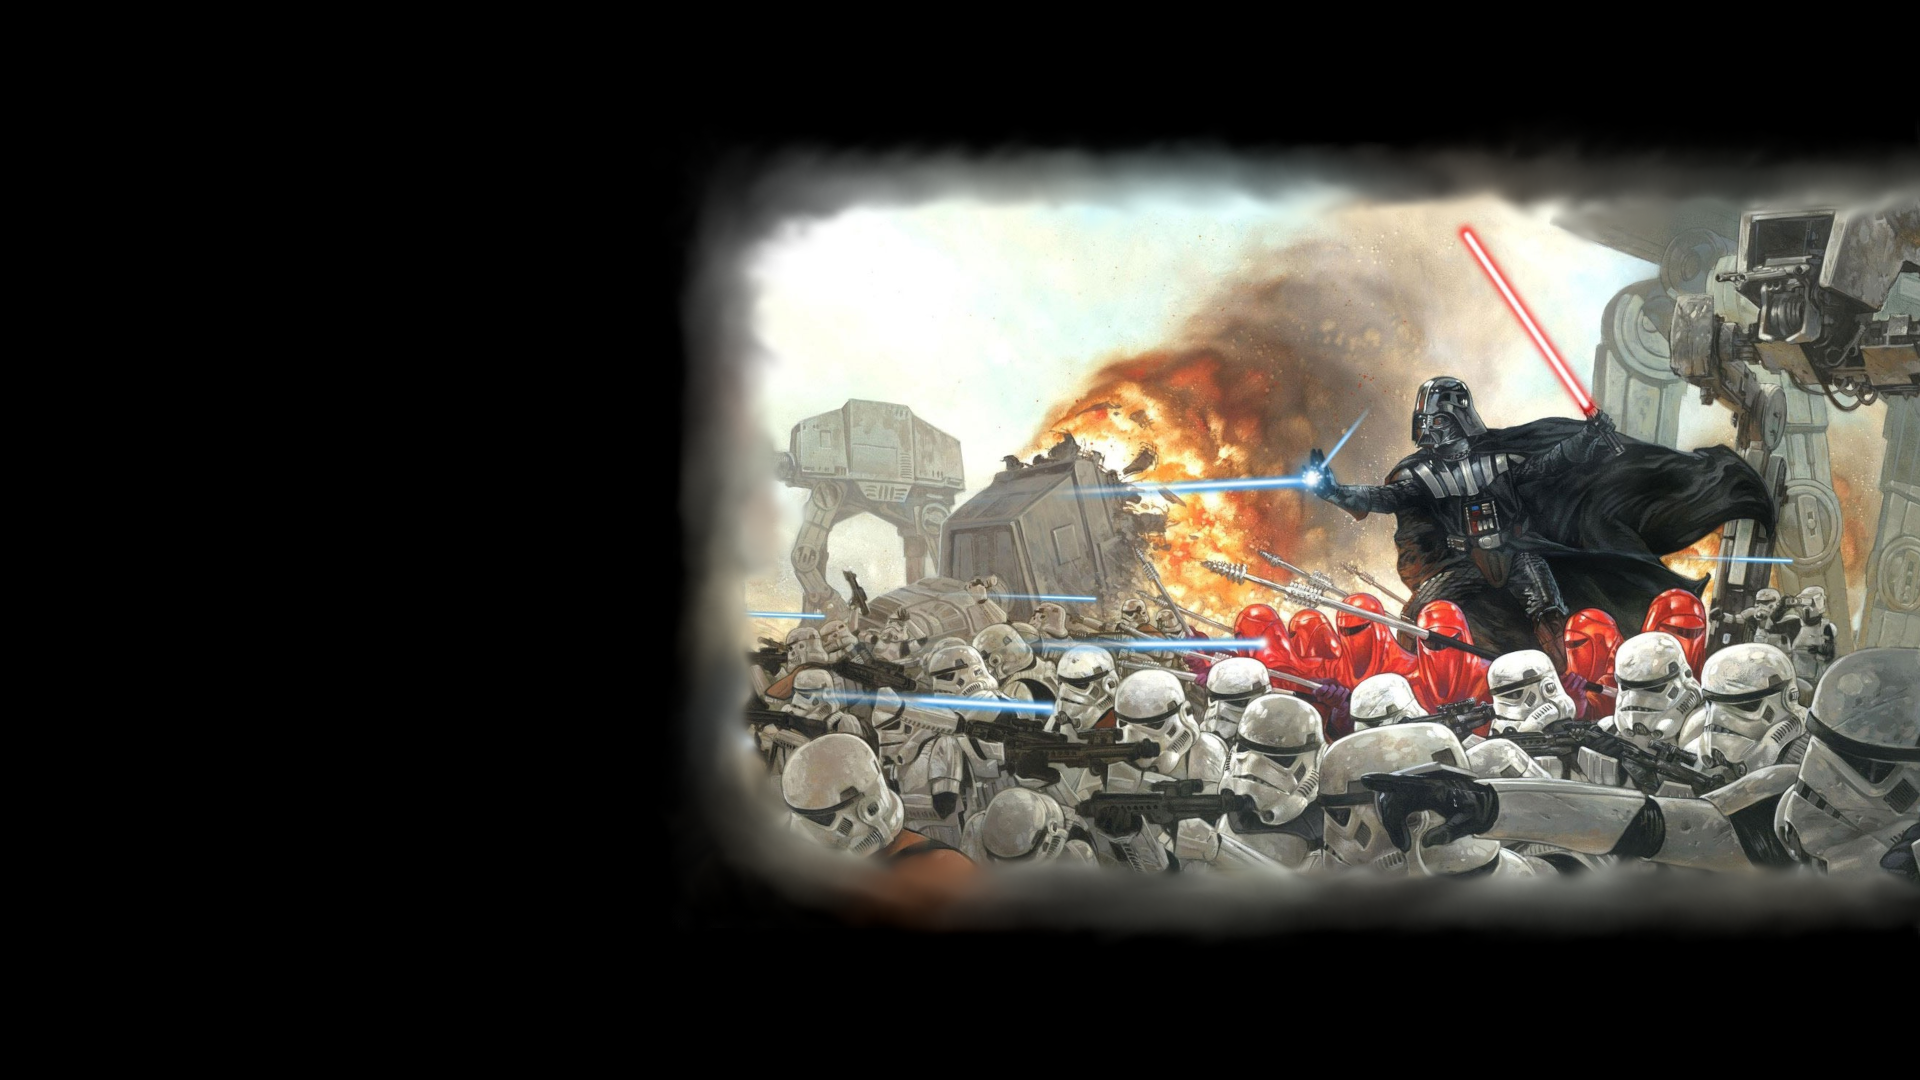
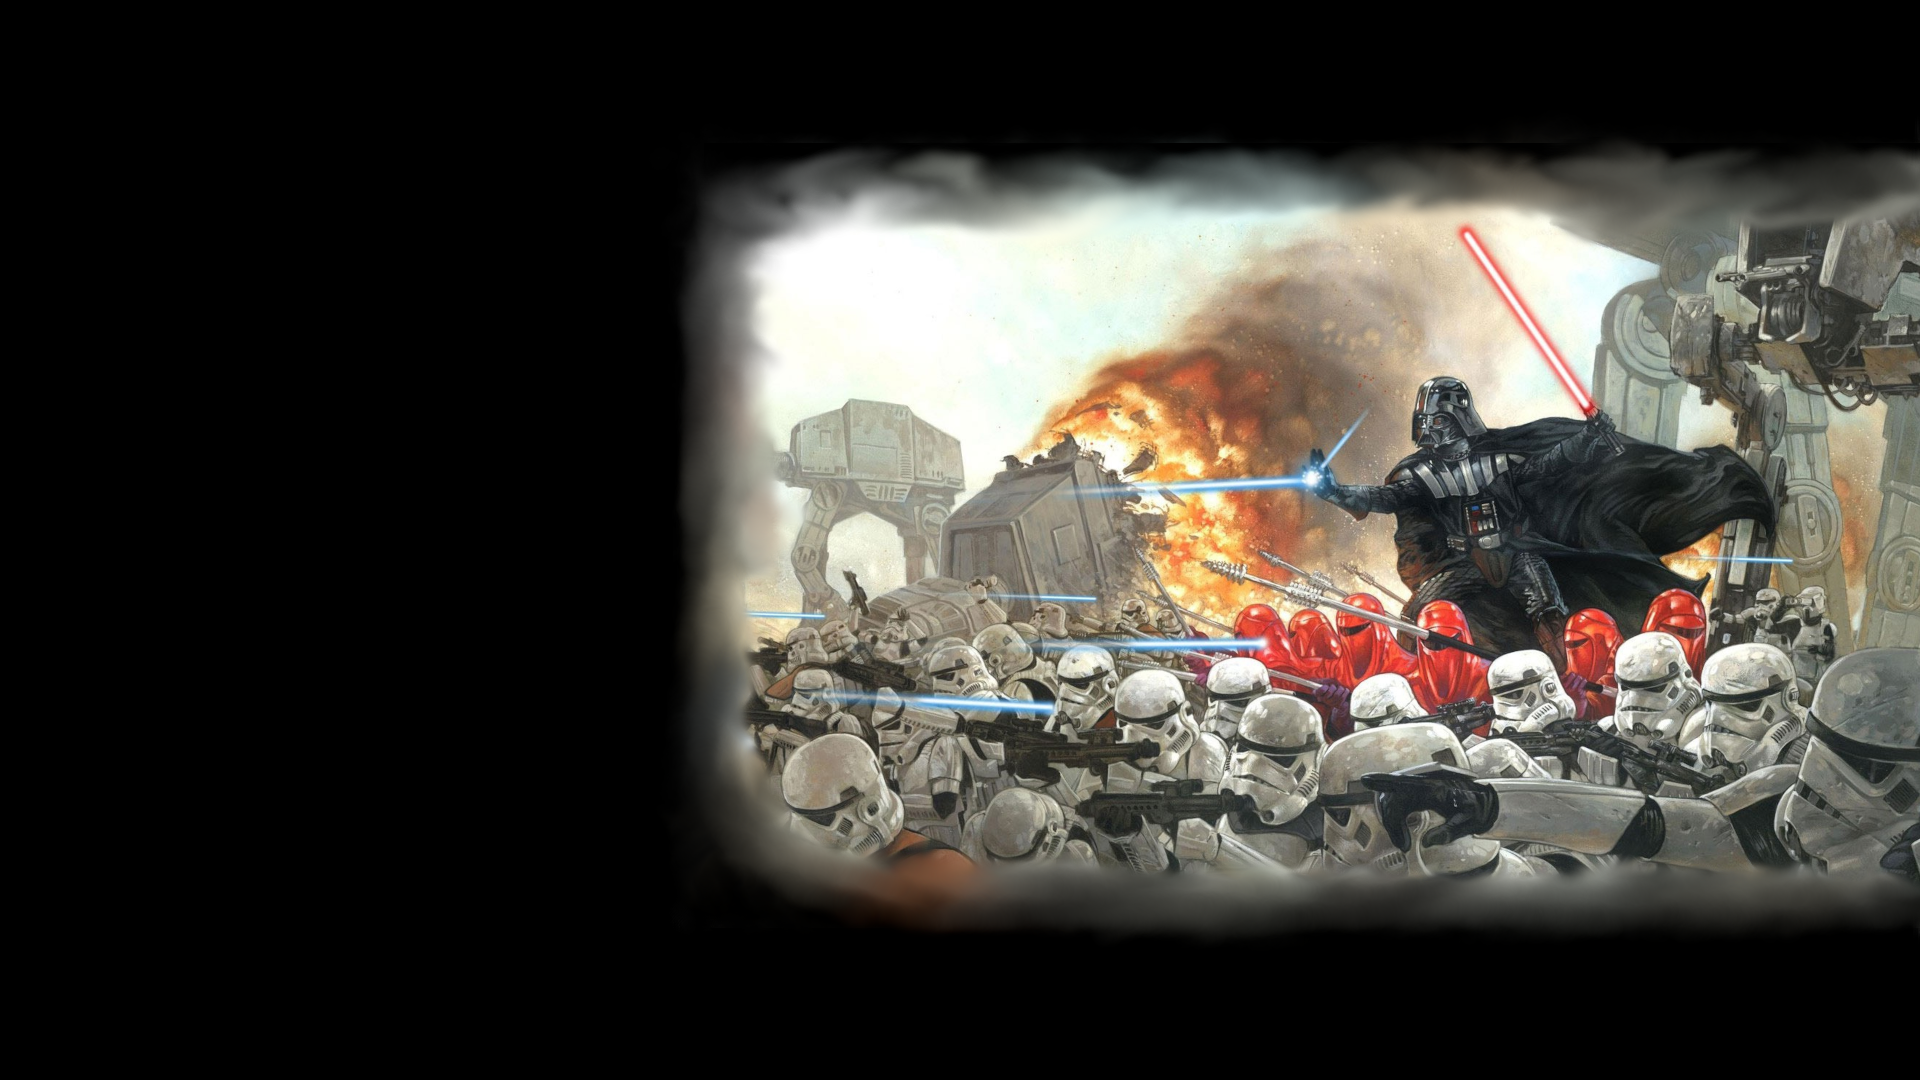
Responsividade e ajustes do hero

Changed region(s): [[0.4062, 0.1222, 0.875, 0.2139], [0.9062, 0.1222, 1.0, 0.2139], [0.4062, 0.1222, 0.4375, 0.1528]]

diff --git a/src/scripts/main.js b/src/scripts/main.js
@@ -2,6 +2,8 @@ document.addEventListener('DOMContentLoaded', () => {
   const heroSection = document.querySelector('.hero')
   const alturaHero = heroSection.clientHeight
 
+  const buttons = document.querySelectorAll('[data-tab-button]')
+
   window.addEventListener('scroll', () => {
     const posicaoAtual = window.scrollY
 
@@ -11,6 +13,17 @@ document.addEventListener('DOMContentLoaded', () => {
       exibeElementosDoHeader()
     }
   })
+
+  for(let i = 0; i < buttons.length; i++) {
+    buttons[i].addEventListener('click', (botao) => {
+      const tabTarget = botao.target.dataset.tabButton
+      const tab = document.querySelector(`[data-tab-id=${tabTarget}]`)
+      hideAllTabs()
+      tab.classList.add('examples__list--is-active')
+      removeActiveButton()
+      botao.target.classList.add('examples__tabs__button--is-active')
+    })
+  }
 })
 
 function ocultaElementosDoHeader(){
@@ -21,4 +34,21 @@ function ocultaElementosDoHeader(){
 function exibeElementosDoHeader(){
   const header = document.querySelector('.header')
   header.classList.remove('header--is-hidden')
+}
+
+function hideAllTabs() {
+  const tabsContainer = document.querySelectorAll('[data-tab-id]')
+
+  for(let i = 0; i < tabsContainer.length; i++) {
+    tabsContainer[i].classList.remove('examples__list--is-active')
+  }
+
+}
+
+function removeActiveButton() {
+  const buttons = document.querySelectorAll('[data-tab-button]')
+
+  for(let i = 0; i < buttons.length; i++) {
+    buttons[i].classList.remove('examples__tabs__button--is-active')
+  }
 }

diff --git a/index.html b/index.html
@@ -52,7 +52,7 @@
         </button>
       </nav>
 
-      <ul class="examples__list examples__list--is-active">
+      <ul data-tab-id="lideres" class="examples__list examples__list--is-active">
         <li class="examples__list__item">
           <img src="./dist/images/exemples/darth-vader.jpg" alt="Darth Vader">
         </li>
@@ -61,6 +61,30 @@
         </li>
         <li class="examples__list__item">
           <img src="./dist/images/exemples/tarkin.webp" alt="Tarkin">
+        </li>
+      </ul>
+
+      <ul data-tab-id="naves" class="examples__list ">
+        <li class="examples__list__item">
+          <img src="./dist/images/exemples/battle-cruiser.jpg" alt="Battle Cruiser">
+        </li>
+        <li class="examples__list__item">
+          <img src="./dist/images/exemples/star-destroyer.jpeg" alt="Star Destroyer">
+        </li>
+        <li class="examples__list__item">
+          <img src="./dist/images/exemples/imperial-freighter.webp" alt="Imperial Freighter">
+        </li>
+      </ul>
+
+      <ul data-tab-id="troopers" class="examples__list">
+        <li class="examples__list__item">
+          <img src="./dist/images/exemples/sandtroopers.webp" alt="Sandtroopers">
+        </li>
+        <li class="examples__list__item">
+          <img src="./dist/images/exemples/stormtrooper.jpeg" alt="Stormtrooper">
+        </li>
+        <li class="examples__list__item">
+          <img src="./dist/images/exemples/scouttrooper.jpeg" alt="Scouttrooper">
         </li>
       </ul>
     </section>

diff --git a/src/styles/_examples.sass b/src/styles/_examples.sass
@@ -2,7 +2,8 @@
 
 .examples
   padding: 2vw 5.6vw
-  min-height: 50vw
+  margin-top: 128px 0 32px
+  border-bottom: 5px solid variaveis.$headerBackgroundColor
 
   &__list
     margin-top: 44px
@@ -11,19 +12,25 @@
     gap: 24px
 
     @media (max-width: 768px)
-      grid-template-columns: 1fr 1fr 
+      grid-template-columns: 1fr
 
     &--is-active
       display: grid
     
     &__item
       img
+        display: block
         max-width: 100%
-        max-height: 250px
+        min-width: 460px
+        max-height: 230px
         border: #fff solid 1px
         border-radius: 4px
+      
+        @media (max-width: 768px)
+          min-width: 333px
     
   &__tabs
+    margin-top: 60px
     display: flex
     justify-content: center
 

diff --git a/src/styles/_hero.sass b/src/styles/_hero.sass
@@ -2,12 +2,15 @@
   
 .hero
   padding: 5.6vw 2vw
-  min-height: 50vh
-  height: 87vh
+  min-height: 1vmin
   background-image: url(../images/propaganda/hero.png)
   text-align: center
   background-size: cover
-  background-position: 0 -110px
+  background-position: 0 -140px
+
+  @media (max-width: 768px)
+    padding: 0
+    background-image: none
 
   &__content
     max-width: 640px
